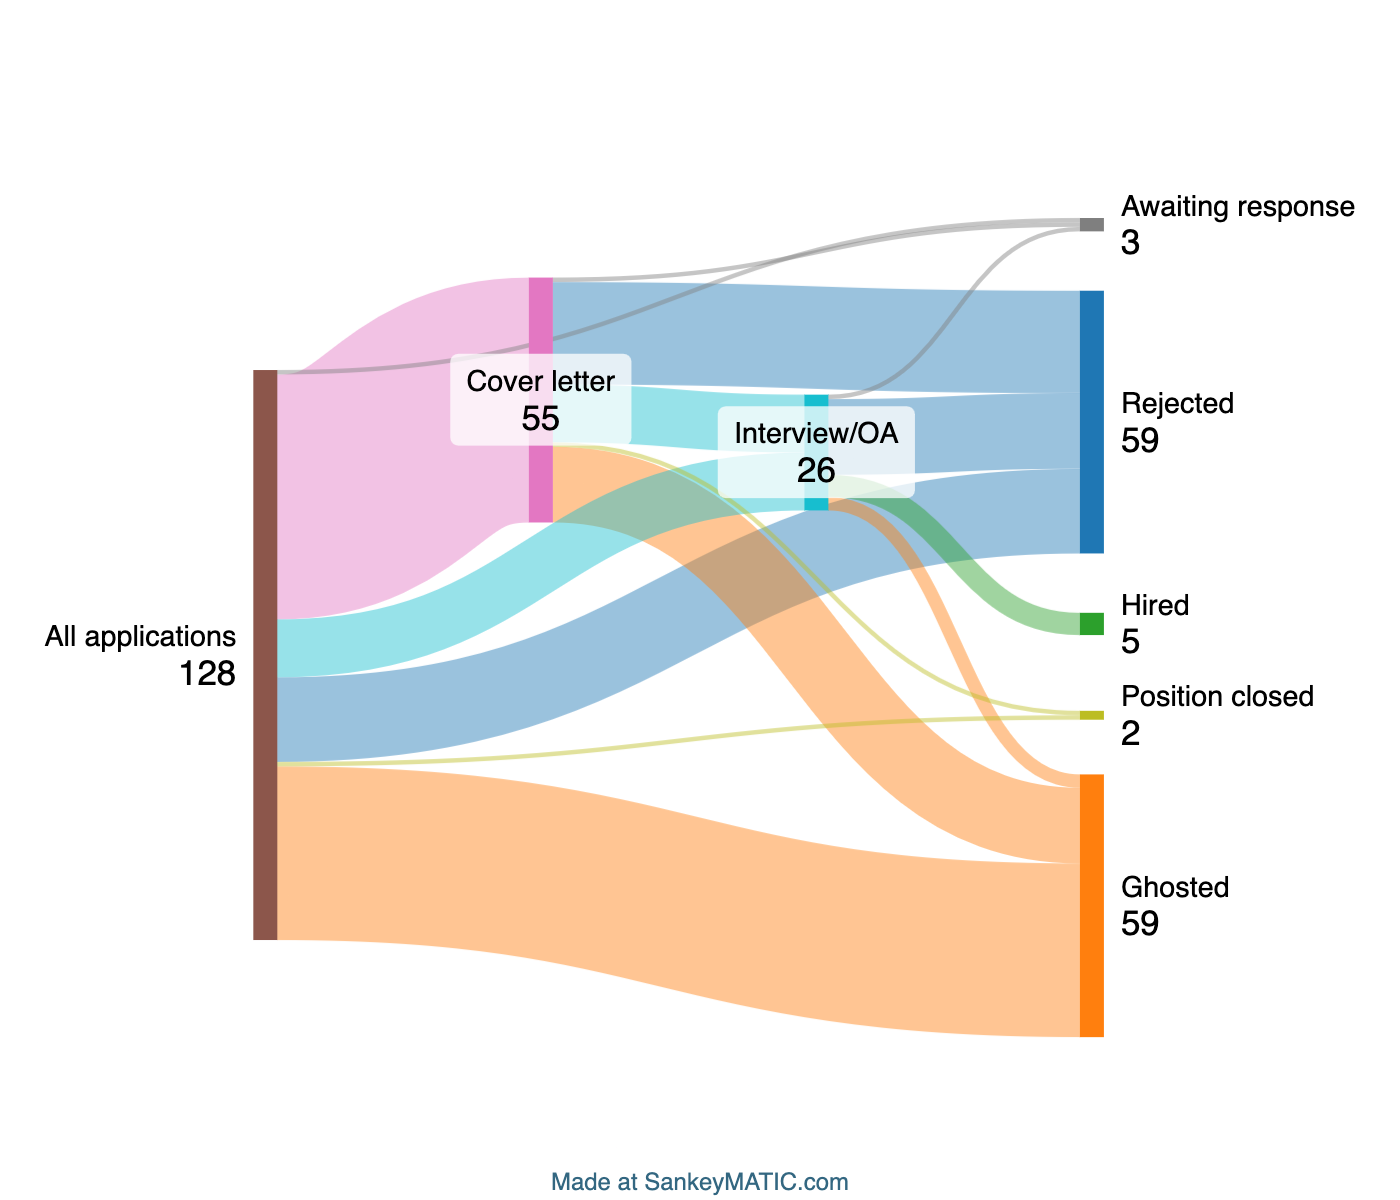
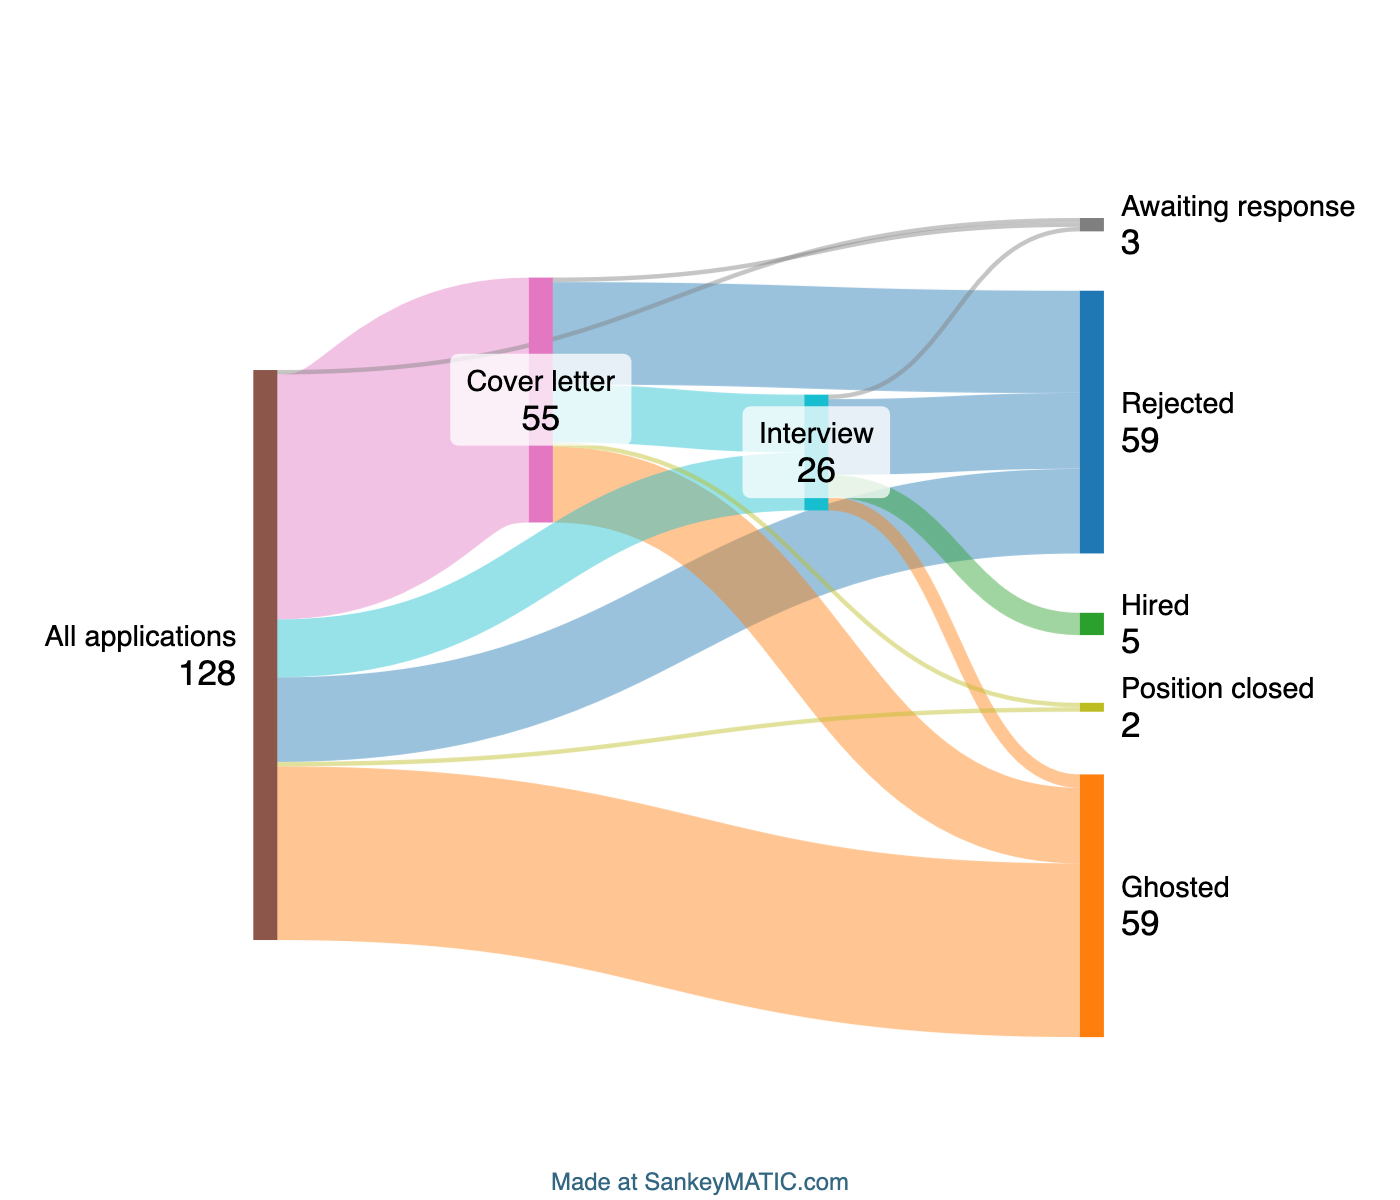
Rename Interview/OA, fix typos

diff --git a/generate_sankey.py b/generate_sankey.py
@@ -17,8 +17,8 @@ def generate_sankey(csv_reader):
         if row["Interview?"] == "No" and row["OA?"] == "No":
             data.append(f'{source}, {row["Stage"]}')
         elif row["Interview?"] == "Yes" or row["OA?"] == "Yes":
-            data.append(f'{source}, Interview/OA')
-            data.append(f'Interview/OA, {row["Stage"]}')
+            data.append(f'{source}, Interview')
+            data.append(f'Interview, {row["Stage"]}')
         else:
             data.append(f'{source}, {row["Stage"]}')
 

diff --git a/README.md b/README.md
@@ -1,34 +1,29 @@
 # Job applications statistics
 Throughout my time at university, I've applied to many summer internships,
-summer retail jobs, research labs, and full-time jobs. The slightly concerning
-job application data from
+summer retail jobs, research labs, and full-time jobs. Internet strangers'
+slightly concerning job application data from
 [r/DataIsBeautiful](https://www.reddit.com/r/dataisbeautiful/) inspired me to
 make this; I thought it would be nice to see how successful (or not) my
 applications were. It looks like I've done tolerably well.
 
-**`analyze_all.py` generates SankeyMATIC-formatted data from a CSV** downloaded
-from a Notion database.
+**`generate_sankey.py` generates SankeyMATIC-formatted data** from a CSV
+downloaded from a Notion database.
 
-`extract_career_only.py` is a script which selects only full-time positions from
-a given CSV.
+`extract_career.py` filters for full-time positions from a CSV.
 
 ## Usage
-To specify only
-For all applications:
 1. Export your entire job applications database from Notion, keeping all default
-   settings except "Include content: No files or images". The downloaded zip
-   should contain two identical CSVs. Put one of them into the `/data`
-   directory.
+   settings except for changing `Include content` to `No files or images`. The
+   downloaded zip should contain two identical CSVs. Put one of them into the
+   `/data` directory.
 	- To consider only applications to career positions, run
-	  `extract_career_only.py data/ALL_APPS.csv data/CAREER_ONLY.csv`.
-2. Run `analyze_all.py data/ALL_APPS.csv`.
+	  `extract_career.py data/ALL_APPS.csv data/CAREER_ONLY.csv`.
+2. Run `generate_sankey.py data/ALL_APPS.csv`.
 3. Use the Sankey-formatted data from the script output to [create a Sankey
    diagram](https://www.sankeymatic.com/build/).
 
-
 ## Results
 ### All applications throughout undergrad
-Here is the data for all the jobs I applied to throughout my undergrad:
 ```
 All applications [55] Cover letter
 Cover letter [1] Awaiting response
@@ -49,9 +44,7 @@ All applications [1] Hired
 ```
 ![all jobs](./images/all_jobs.png)
 
-### Career only
-Here is the data for the full-time career positions I applied to in senior year:
-
+### Career positions only
 ```
 All applications [19] Cover letter
 Cover letter [1] Awaiting response
@@ -72,8 +65,11 @@ Interview/OA [1] Hired
 ![career jobs](./images/career_jobs.png)
 
 ## Resources
-- [Notion](https://www.notion.com/) - for everyday logging
+- [Notion](https://www.notion.com/) - for everyday logging of my job
+  applications
 - [Python CSV library](https://docs.python.org/3/library/csv.html) - for parsing
   the CSV downloaded from Notion
 - [SankeyMATIC](https://www.sankeymatic.com/build/) - for creating the flow
   diagrams
+- [r/DataIsBeautiful](https://reddit.com/r/dataisbeautiful) - for the
+  inspiration
